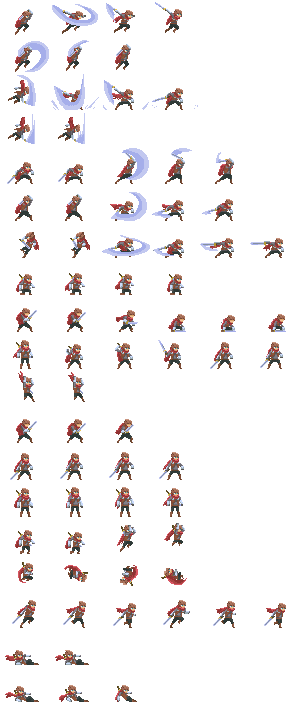
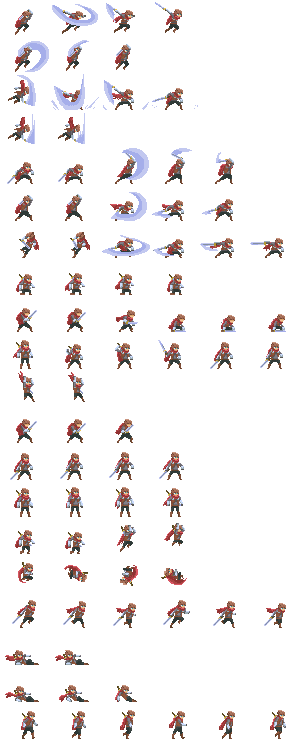
added walk

diff --git a/scripts/playerStates.js b/scripts/playerStates.js
@@ -12,6 +12,10 @@ const states = {
 class State {
   constructor(state) {
     this.state = state;
+    this.moveSpeed = 1;
+    this.actionSpeed = 1.5;
+    this.idleSpeed = 0.5;
+    this.crouchSpeed = 0;
   }
 }
 
@@ -22,16 +26,16 @@ export class Idle extends State {
   }
   enter() {
     this.player.frameX = 0;
-    this.player.frameY = 12;
-    this.player.maxFrame = 3;
+    this.player.frameY = 19;
+    this.player.maxFrame = 5;
   }
   handleInput(input) {
     if (input.includes("ArrowLeft") || input.includes("ArrowRight")) {
-      this.player.setState(states.RUNNING);
+      this.player.setState(states.RUNNING, this.moveSpeed);
     } else if (input.includes("ArrowDown")) {
-      this.player.setState(states.CROUCH);
+      this.player.setState(states.CROUCH, this.crouchSpeed);
     } else if (input.includes("ArrowUp")) {
-      this.player.setState(states.JUMP);
+      this.player.setState(states.JUMP, this.moveSpeed);
     }
   }
 }
@@ -48,9 +52,9 @@ export class Crouch extends State {
   }
   handleInput(input) {
     if (input.includes("ArrowLeft") || input.includes("ArrowRight")) {
-      this.player.setState(states.RUNNING);
+      this.player.setState(states.RUNNING, this.moveSpeed);
     } else if (input.includes("ArrowUp")) {
-      this.player.setState(states.JUMP);
+      this.player.setState(states.JUMP, this.moveSpeed);
     }
   }
 }
@@ -67,11 +71,11 @@ export class Running extends State {
   }
   handleInput(input) {
     if (input.includes("ArrowUp")) {
-      this.player.setState(states.JUMP);
+      this.player.setState(states.JUMP, this.moveSpeed);
     } else if (input.includes("ArrowRight") && input.includes("ArrowDown")) {
-      this.player.setState(states.SLIDE);
+      this.player.setState(states.SLIDE, this.actionSpeed);
     } else if (!input.includes("ArrowLeft") && !input.includes("ArrowRight")) {
-      this.player.setState(states.IDLE);
+      this.player.setState(states.IDLE, this.idleSpeed);
     }
   }
 }
@@ -91,7 +95,7 @@ export class Jump extends State {
   }
   handleInput(input) {
     if (this.player.vy > this.player.weight) {
-      this.player.setState(states.FALL);
+      this.player.setState(states.FALL, this.moveSpeed);
     }
   }
 }
@@ -111,7 +115,7 @@ export class Fall extends State {
   }
   handleInput(input) {
     if (this.player.onGround()) {
-      this.player.setState(states.IDLE);
+      this.player.setState(states.IDLE, this.idleSpeed);
     }
   }
 }
@@ -132,14 +136,14 @@ export class Slide extends State {
       (input.includes("ArrowLeft") || input.includes("ArrowRight")) &&
       !input.includes("ArrowDown")
     ) {
-      this.player.setState(states.SLIDETOSTAND);
+      this.player.setState(states.SLIDETOSTAND, this.moveSpeed);
     } else if (input.includes("ArrowUp")) {
-      this.player.setState(states.JUMP);
+      this.player.setState(states.JUMP, 1);
     } else if (!input.includes("ArrowDown") && !this.slideToStandEntered) {
-      this.player.setState(states.SLIDETOSTAND);
+      this.player.setState(states.SLIDETOSTAND, this.moveSpeed);
       this.slideToStandEntered = true;
     } else if (this.player.speed === 0 && this.player.onGround()) {
-      this.player.setState(states.IDLE);
+      this.player.setState(states.IDLE, this.idleSpeed);
     }
   }
 }
@@ -156,13 +160,13 @@ export class SlideToStand extends State {
   }
   handleInput(input) {
     if (input.includes("ArrowLeft") || input.includes("ArrowRight")) {
-      this.player.setState(states.RUNNING);
+      this.player.setState(states.RUNNING, 2);
     } else if (input.includes("ArrowDown")) {
-      this.player.setState(states.CROUCH);
+      this.player.setState(states.CROUCH, 0);
     } else if (input.includes("ArrowUp")) {
-      this.player.setState(states.JUMP);
+      this.player.setState(states.JUMP, 1);
     } else {
-      this.player.setState(states.IDLE);
+      this.player.setState(states.IDLE, 0.5);
     }
   }
 }

diff --git a/scripts/player.js b/scripts/player.js
@@ -27,7 +27,7 @@ class Player {
     this.frameY = 0;
     this.maxFrame = 3;
     this.speed = 0;
-    this.maxSpeed = 3;
+    this.maxSpeed = 2;
     this.fps = 10;
     this.frameInterval = 1000 / this.fps;
     this.frameTimer = 0;
@@ -104,8 +104,10 @@ class Player {
     );
   }
 
-  setState(state) {
+  setState(state, speed) {
     this.currentState = this.states[state];
+    // this.game.speed = speed;
+    this.game.speed = speed * this.game.maxSpeed;
     this.currentState.enter();
   }
 }

diff --git a/main.js b/main.js
@@ -15,7 +15,8 @@ window.addEventListener("load", () => {
       this.width = width;
       this.height = height;
       this.groundMargin = 51;
-      this.speed = 1;
+      this.speed = 0.5;
+      this.maxSpeed = 2;
       this.background = new Background(this);
       this.player = new Player(this);
       this.input = new InputHandler();
